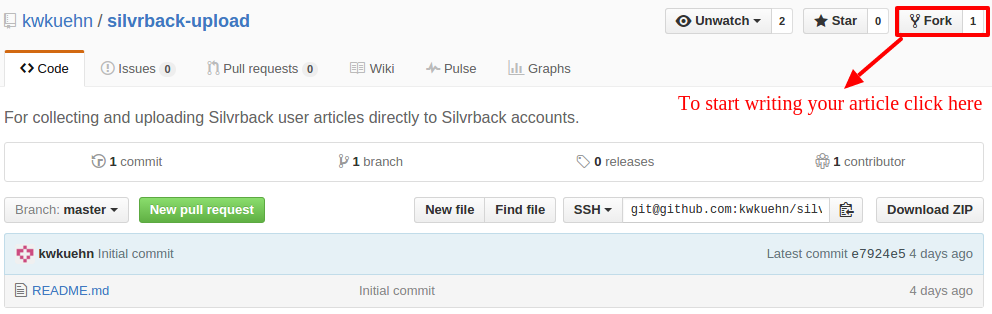
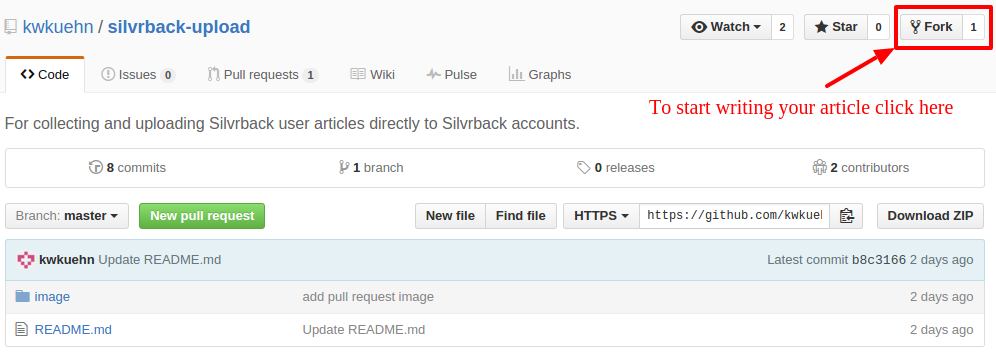
update docs

diff --git a/README.md b/README.md
@@ -3,11 +3,17 @@ You can now upload a blog article written in Github directly to your Silvrback b
 
   1. Login to your Github account. We will use your Github account email to find your Silvrback account. Therefore, make sure your Github account and Silvrback account emails are the same.
 
-  2. Locate the Silvrback Github repo here https://github.com/kwkuehn/silvrback-upload
+  2. Locate the Silvrback Github repo here https://github.com/kwkuehn/silvrback-upload and click the fork button. The Silvrback Github repo will then be connected to your Github account. Now you are ready to start writing your article.
   ![Settings Window](https://raw.github.com/kwkuehn/silvrback-upload/master/image/fork.png)
 
-  3. Go to your Github account and find this repo. As you can see from the image above, you create a new article by click the “New File” button. Use your article title as the file name.
+  3. Go to your Github account and find this repo. In the image above, you will see a “New File” button, which you will use to create a new article. Click this button. Use your article title as the file name, with an .md extension.
   ![Settings Window](https://raw.github.com/kwkuehn/silvrback-upload/master/image/article.png)
 
-  4. After you finish writing your article, commit your article file. Create a pull request when you want to upload your Github article to your Silvrback account. You are done in Github.
+  4. After you finish writing your article, commit your file using the “Commit Changes” button.
+  ![Settings Window](https://raw.github.com/kwkuehn/silvrback-upload/master/image/commit.png)
+
+  5. Create a pull request when you want to upload your Github article to your Silvrback account. Once you have completed the pull request, you should find your article in your unpublished articles section of your blog. You will need to verify the upload and publish from your Silvrback account.
+
+  **N.B:** This step is required for first time use only. After you have done this step once, future article uploads will complete after execute step 4 above.
+ ![Settings Window](https://raw.github.com/kwkuehn/silvrback-upload/master/image/pull_request.png)
  ![Settings Window](https://raw.github.com/kwkuehn/silvrback-upload/master/image/done.png)
